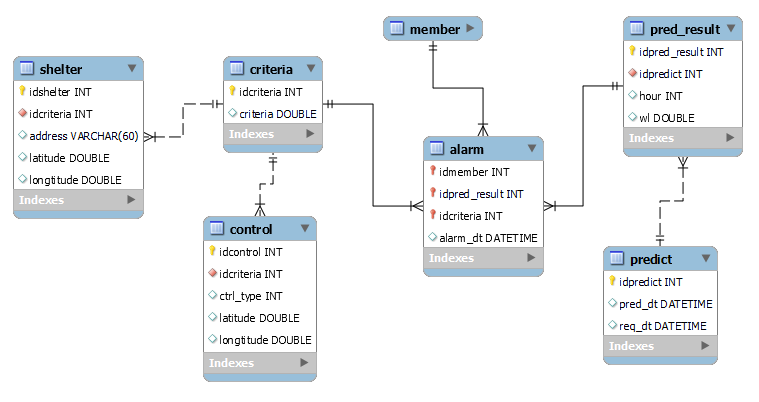
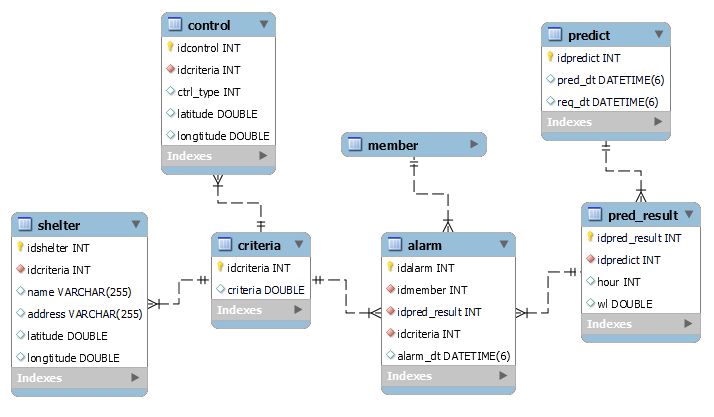
fix shelter and add shelter data

diff --git a/src/main/java/edu/pnu/entity/Shelter.java b/src/main/java/edu/pnu/entity/Shelter.java
@@ -13,6 +13,7 @@ public class Shelter {
 	@GeneratedValue(strategy = GenerationType.IDENTITY)
 	private Integer idshelter;
 	private Integer idcriteria;
+	private String name;
 	private String address;
 	private Double latitude;
 	private Double longtitude;
